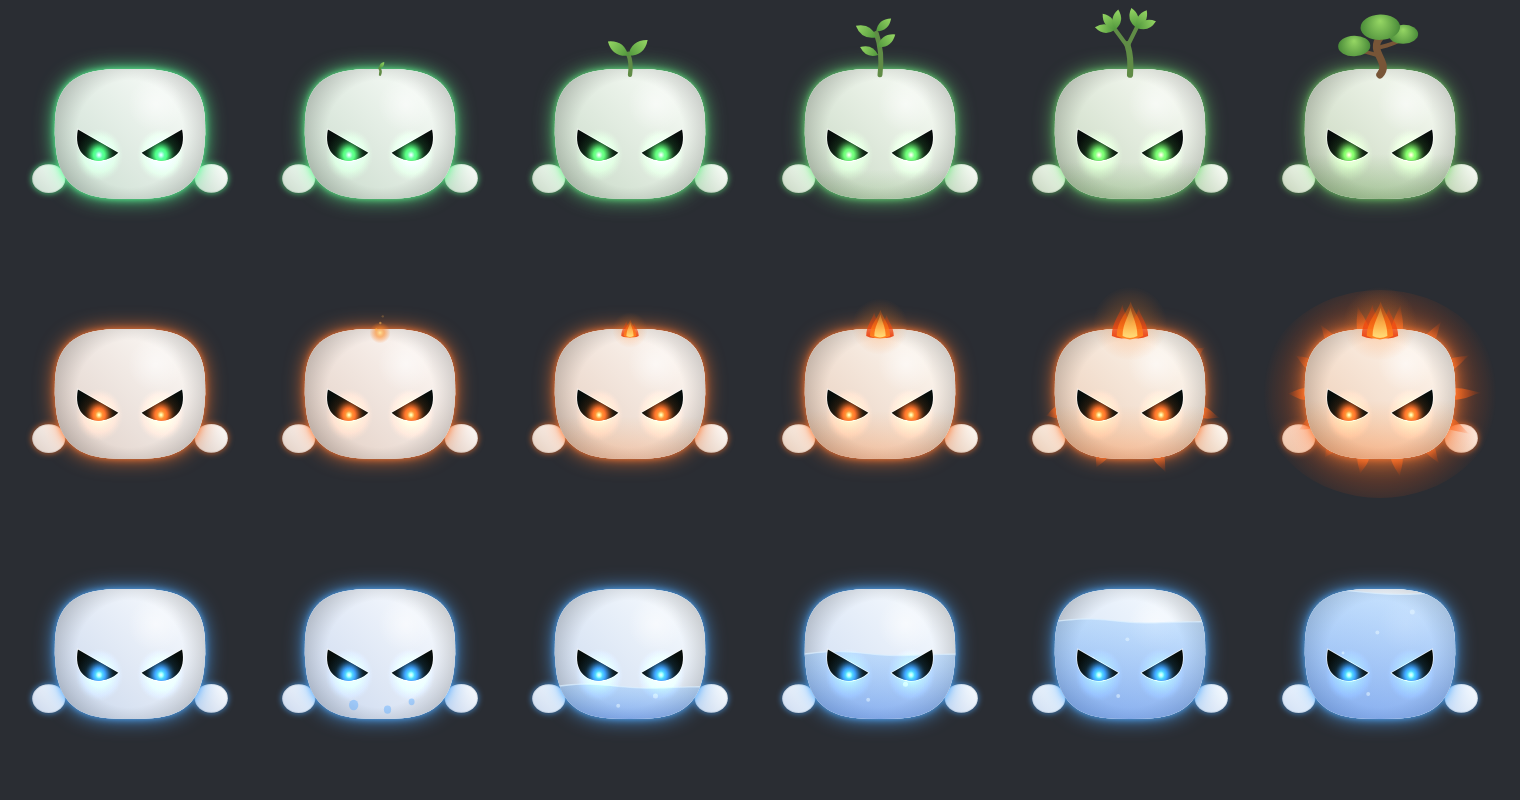
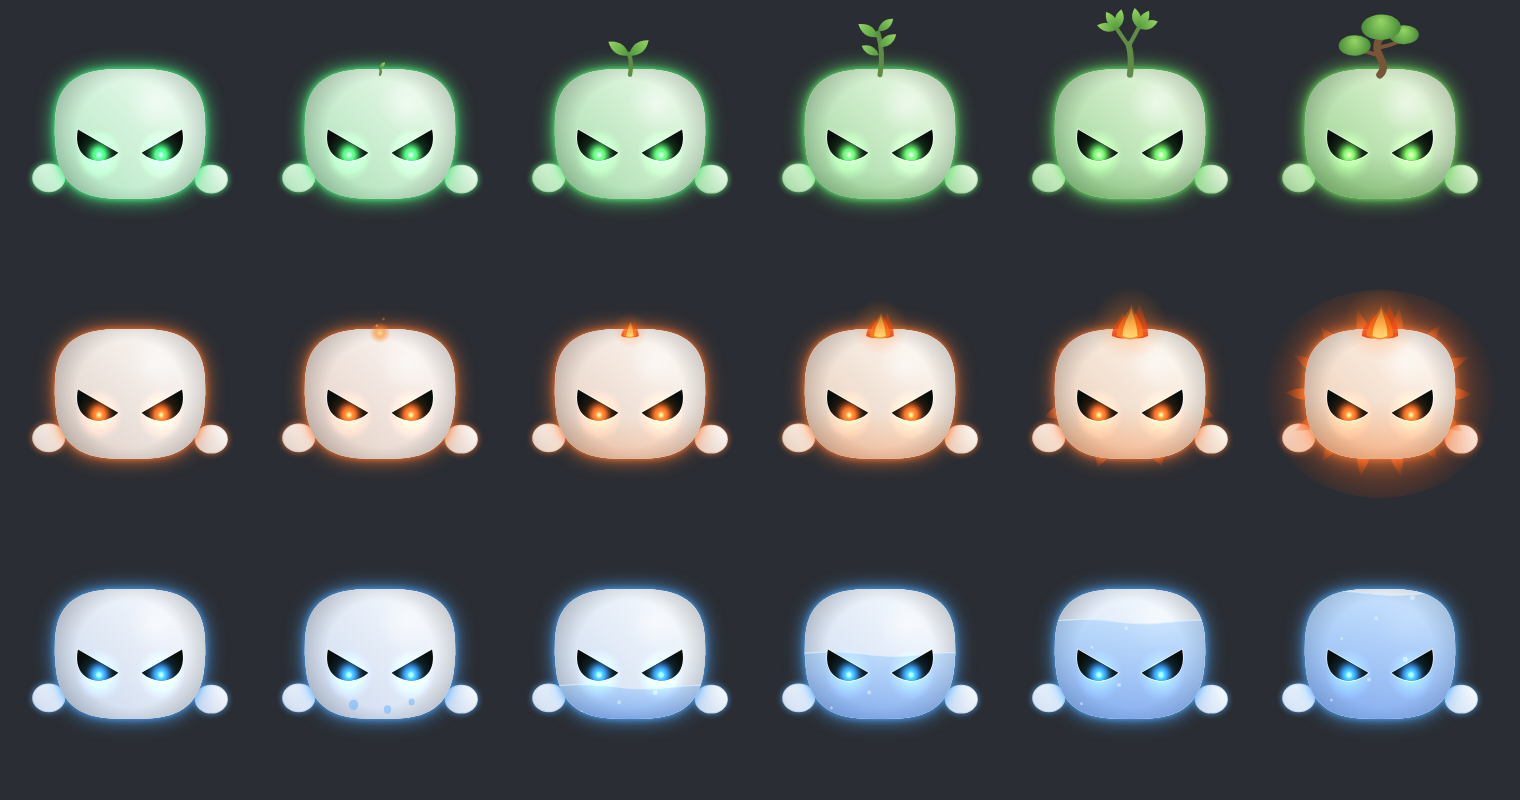
Fixes round 3B, item 3: Night looks green, and nothing recolours Groovy
Night's body and glow are now a clear soft green, as Ember is warm and
Frost cool. The island no longer paints Groovy in the focused tile's or
plan's colour: he always wears his own look.

Claude-Session: https://claude.ai/code/session_0171PEc8CoiemtZPwGJkxLUa

diff --git a/windows/src/island/island.ts b/windows/src/island/island.ts
@@ -16,7 +16,7 @@ import {
 import { Sound } from "../core/sound";
 import { State } from "../core/state";
 import { SPOTIFY_ID, islandDances } from "../core/spotify";
-import { BotEngine, hexToRGB } from "../mochi/engine";
+import { BotEngine } from "../mochi/engine";
 import { SEED_ISLAND, SeedIntro, seedKind } from "../mochi/seed";
 import { MOTION, duration, easeOut } from "../core/motion";
 import { createMiniBot, pruneMiniBots, syncMiniBotStates, tickMiniBots } from "../mochi/minibots";
@@ -30,7 +30,7 @@ import { speak } from "../voice/speak";
 import { t } from "../i18n/i18n";
 import { UploadCanvas } from "../upload/canvas";
 import { USC, UploadSeq } from "../upload/sequence";
-import { closePlanCard, openPlanColor, planCardOpen } from "../views/usage";
+import { closePlanCard } from "../views/usage";
 import { buildHeader, buildViews, type ViewActions, type ViewHost } from "../views/views";
 import { h } from "../views/dom";
 import { IslandStateMachine } from "./fsm";
@@ -1372,13 +1372,9 @@ export class Island {
     const ctx = this.botCanvas.getContext("2d");
     if (!ctx) return;
 
-    const focus = State.focusTask;
-    // While a plan card is open Groovy wears the plan's colour, like its pill.
-    this.engine.bodyColor = planCardOpen()
-      ? hexToRGB(openPlanColor())
-      : focus?.isIntegration
-        ? hexToRGB(focus.color)
-        : null;
+    // Groovy always wears his own look's colours (round 3B item 3): never a
+    // tile's, a plan's or the theme's. Only the user's colours change them.
+    this.engine.bodyColor = null;
     this.engine.particleOverhang = BOT_OVERHANG;
     this.engine.lookX = this.lookX();
     this.engine.lookY = this.lookY();

diff --git a/windows/src/mochi/skins.ts b/windows/src/mochi/skins.ts
@@ -71,9 +71,10 @@ const SHAPE = { w: 1.0, h: 1.12, exp: 3.0, taper: -0.05 };
 const FACE = { eyeW: 3.0, eyeH: 1.75, eyeSp: 0.47, eyeY: 0.1, eyeTilt: -0.22 };
 
 const night: SkinStyle = {
-  bodyTop: [0.975, 0.99, 0.978],
-  bodyBottom: [0.8, 0.87, 0.82],
-  rimGlow: "rgba(90,255,150,0.9)",
+  bodyTop: [0.93, 0.99, 0.94],
+  // Night is green, as plainly as Ember is warm and Frost is cool (round 3B item 3).
+  bodyBottom: [0.7, 0.9, 0.76],
+  rimGlow: "rgba(70,240,130,1)",
   eyeInk: "rgb(150,255,185)",
   eyeGlow: "rgba(80,255,140,0.95)",
   iris: "rgb(70,235,120)",
@@ -114,9 +115,9 @@ export const SKIN_STYLES: Record<Skin, SkinStyle> = { night, ember, frost };
 export const GROWN_STYLES: Record<Skin, SkinStyle> = {
   night: {
     ...night,
-    bodyTop: [0.97, 0.985, 0.955],
-    bodyBottom: [0.78, 0.84, 0.74],
-    rimGlow: "rgba(120,220,110,0.7)",
+    bodyTop: [0.9, 0.97, 0.86],
+    bodyBottom: [0.6, 0.82, 0.56],
+    rimGlow: "rgba(110,225,95,0.95)",
     eyeInk: "rgb(170,240,140)",
     eyeGlow: "rgba(120,220,90,0.9)",
     iris: "rgb(110,215,90)",

diff --git a/STATUS.md b/STATUS.md
@@ -141,3 +141,4 @@ and its translations.
 |---|---|---|
 | 1. No grey square | The island no longer uses Tauri's `Effect::Acrylic`, which on Windows 11 is the DWM system backdrop: it fills the whole window rectangle whatever the region (the grey square). `glass.rs` now sets the legacy accent blur itself (`SetWindowCompositionAttribute`, `ACCENT_ENABLE_ACRYLICBLURBEHIND` on 11, blur behind on 10, a light tint), which stays inside `SetWindowRgn`. The rounded region (square top, rounded bottom at the CSS radius × monitor scale) is now set in **every** style, Solid too, on every shape push and every window fit. Where Windows refuses the accent, the page draws its own glass (`body.glass-css`: a darker tint and a soft rim) on the transparent window, so the island is always clean; the Glass/Solid setting stays. `html`, `body` and `#root` have no background; the island window is `transparent: true`. **CI:** `scripts/corner-test.ps1` paints the desktop magenta, starts Groovy held open on F (`GROOVY_SMOKE_VIEW=home`) and on E (`player`, with a pretend track), photographs its window (`CopyFromScreen`) and fails if a bottom corner pixel isn't magenta; the shots are uploaded as `island-corners`. | Rust tests (no system backdrop anywhere in glass.rs, the look decision, smoke views); Windows target compiles; the corner test runs on every Windows build. **On the owner's PC: the blur's look on Windows 11.** |
 | 2. Music layout | The player folds back **1.5 s** after the music stops (`PLAYER_HOLD_MS`, was 5 s). Spotify's play/pause already reaches the island by Windows' media-session events (`PlaybackInfoChanged`, `MediaPropertiesChanged`, `TimelinePropertiesChanged`, `CurrentSessionChanged` wake the listener in `spotify.rs`; no polling). **Smooth:** F ↔ E no longer changes the grid's height or row count mid-way: the player fades/slides in and the two-row grid only slides down under it (its second row goes under the card's edge), 280 ms ease-out, transform and opacity only. **Every island change** (F ↔ E, a detail card, quick settings, voice states, the strip) now uses one 280 ms ease-out curve each way instead of a spring whose overshoot went past the window just grown for it (cut edges); the window is grown to the larger size first and shrunk after the curve ends. Shared timings in the new `src/core/motion.ts` (reduced motion: 120 ms). | `tests/home.test.mjs` (1.5 s hold); type check; screenshot of E. |
+| 3. Night looks green | Night's body is now a soft green (`bodyTop` [0.93, 0.99, 0.94], `bodyBottom` [0.70, 0.90, 0.76]) with a stronger green rim glow; its grown stage (Grove) goes deeper green. **What recoloured him:** the island painted its Groovy in the focused tile's colour (GitHub red, Vercel violet…) and an open plan card's colour (`engine.bodyColor` in `island.ts`); that is gone: the island's Groovy always wears his look, and only the user's own colours change it (the agent dots keep their colours). Nothing in the engine reads the hour, the Windows theme or accent. The state tints (blue while working…) are kept: they are status, not his look. Screenshot: `look-stages.png` regenerated. | `tests/looks.test.mjs` (Night green, Ember warm, Frost cool; no recolouring in the island). |

diff --git a/WORK_QUEUE.md b/WORK_QUEUE.md
@@ -14,7 +14,7 @@ This is the **one list** of everything to do, in order. Work from the top down. 
 ## 1. Fixes round 3B: `FIXES_ROUND3B.md` (the owner's test feedback)
 - [x] 1. Grey square behind the island
 - [x] 2. Music layout: smoother, back to normal quicker
-- [ ] 3. Night must look green
+- [x] 3. Night must look green
 - [ ] 4. Choosing a look doesn't stick; the wardrobe lags
 - [ ] 5. No stage picking
 - [ ] 6. Dictation: names and model numbers
